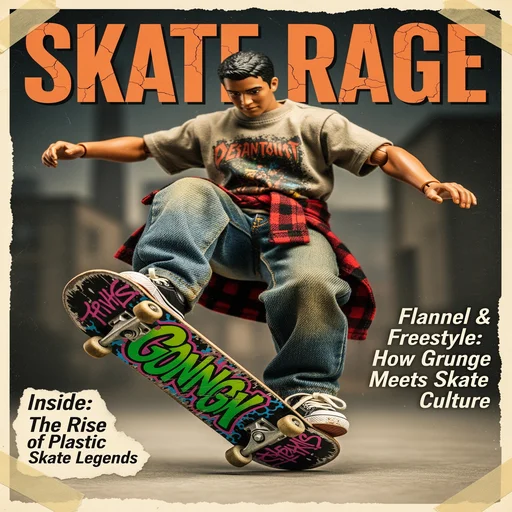
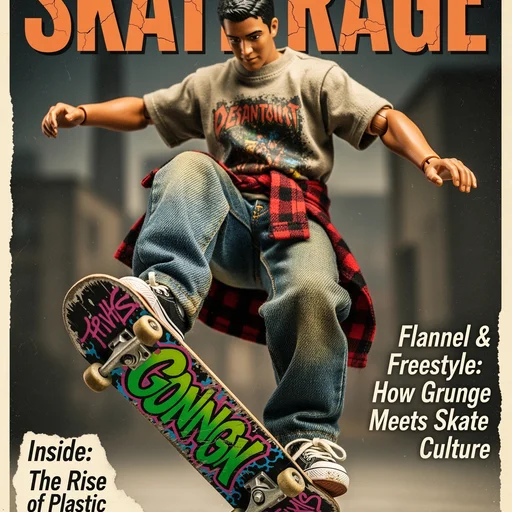
quick fix to the image format

diff --git a/scripts/convert_workflow_to_template.py b/scripts/convert_workflow_to_template.py
@@ -137,7 +137,7 @@ def sanitize_workflow_name(name: str) -> str:
 
 
 def process_image(image_path: Path, output_path: Path) -> None:
-    """Convert and resize image to webp format.
+    """Convert and resize image to webp format using cover fit.
 
     Args:
         image_path: Path to input image file
@@ -158,12 +158,33 @@ def process_image(image_path: Path, output_path: Path) -> None:
         if img.mode not in ("RGB", "RGBA"):
             img = img.convert("RGB")
 
-        # Resize to 512x512
-        img_resized = img.resize((512, 512), Image.Resampling.LANCZOS)
+        # Resize to cover 512x512 while maintaining aspect ratio
+        # This is similar to CSS object-fit: cover
+        target_size = (512, 512)
+        img_width, img_height = img.size
+        target_width, target_height = target_size
+
+        # Calculate scaling factor to cover the target size
+        scale = max(target_width / img_width, target_height / img_height)
+
+        # Calculate new dimensions
+        new_width = int(img_width * scale)
+        new_height = int(img_height * scale)
+
+        # Resize image
+        img_resized = img.resize((new_width, new_height), Image.Resampling.LANCZOS)
+
+        # Crop from center to exact target size
+        left = (new_width - target_width) // 2
+        top = (new_height - target_height) // 2
+        right = left + target_width
+        bottom = top + target_height
+
+        img_cropped = img_resized.crop((left, top, right, bottom))
 
         # Save as webp with quality=85
         output_path.parent.mkdir(parents=True, exist_ok=True)
-        img_resized.save(output_path, format="WEBP", quality=85)
+        img_cropped.save(output_path, format="WEBP", quality=85)
 
     except Exception as err:
         msg = f"Failed to process image: {err}"
